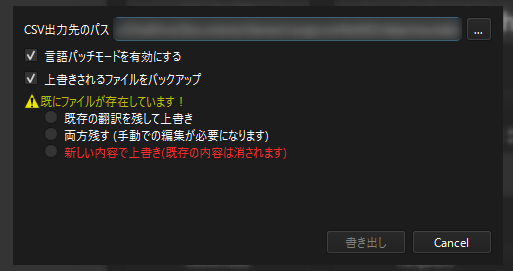
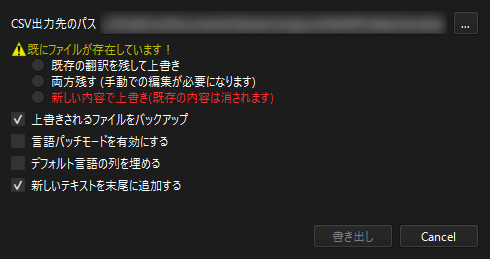
マニュアル更新

diff --git a/make/source/conf.py b/make/source/conf.py
@@ -9,7 +9,7 @@
 project = 'Langscore'
 copyright = '2022-2026, BreezeSinfonia'
 author = 'BreezeSinfonia'
-release = '0.8.11'
+release = '0.8.12'
 
 # -- General configuration ---------------------------------------------------
 # https://www.sphinx-doc.org/en/master/usage/configuration.html#general-configuration

diff --git a/make/source/011_screen_description_edit.rst b/make/source/011_screen_description_edit.rst
@@ -222,15 +222,26 @@ Main
 ^^^^^^^^^^^^^^^^^^^^^^^^^^^
 
 .. image:: img/write_dialog4.png
+
+* 上書きされるファイルをバックアップ
+
+ - 既存の翻訳CSVファイルのバックアップを取ります。
    
 * 言語パッチモードを使用する
 
  - :ref:`言語パッチ機能 <language_patch>` を有効にします。
  - 有効にした場合、出力先のフォルダに更に言語フォルダが作成されます。CSVは言語フォルダ内に格納されます。
+   
+* デフォルト言語の列を埋める
 
-* 上書きされるファイルをバックアップ
+ - 有効にした場合、original列の内容がデフォルト言語の列にそのままコピーされます。
+ - 無効にした場合、デフォルト言語の列は空で出力されます。(既に記述されている内容は、空で上書きされません。)
 
- - 既存の翻訳CSVファイルのバックアップを取ります。
+* 新しいテキストを末尾に追加する
+ 
+ - 有効にしてCSVを上書きする場合、新規に追加されたとみなされた文章がCSVの末尾に追加されます。
+ - 無効の場合はマップのイベント順に依存して追加されます。
+
 
 
 上書き確認について

diff --git a/make/source/060_history.rst b/make/source/060_history.rst
@@ -3,6 +3,17 @@
 変更履歴
 ########
 
+Ver.0.8.12 2026-04-26
+********************
+
+langscoreアプリ
+---------------
+
+機能追加
+==========
+
+* 「デフォルト言語の列を埋める」「新しいテキストを末尾に追加する」のフラグを追加
+
 Ver.0.8.11 2026-03-21
 ********************
 
